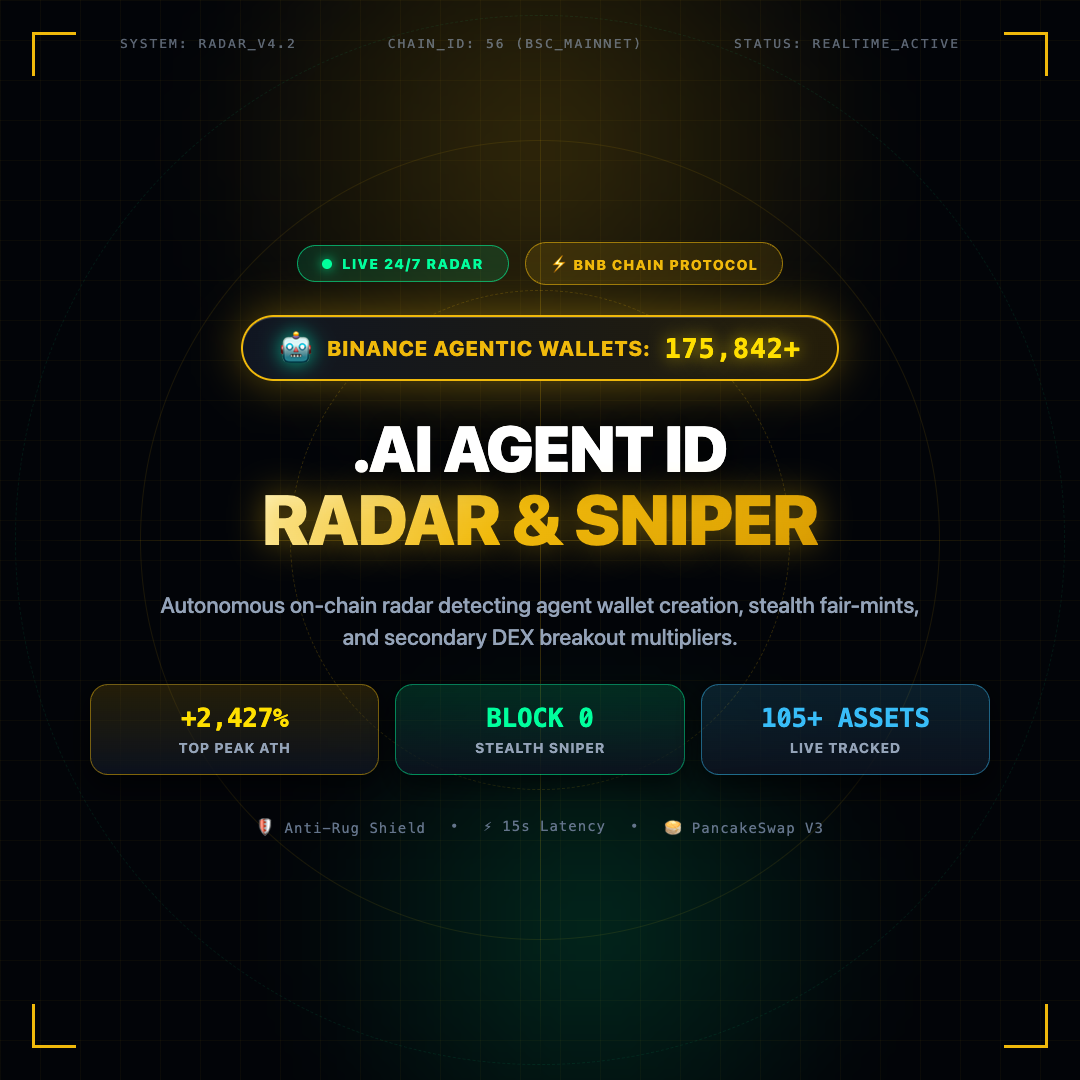
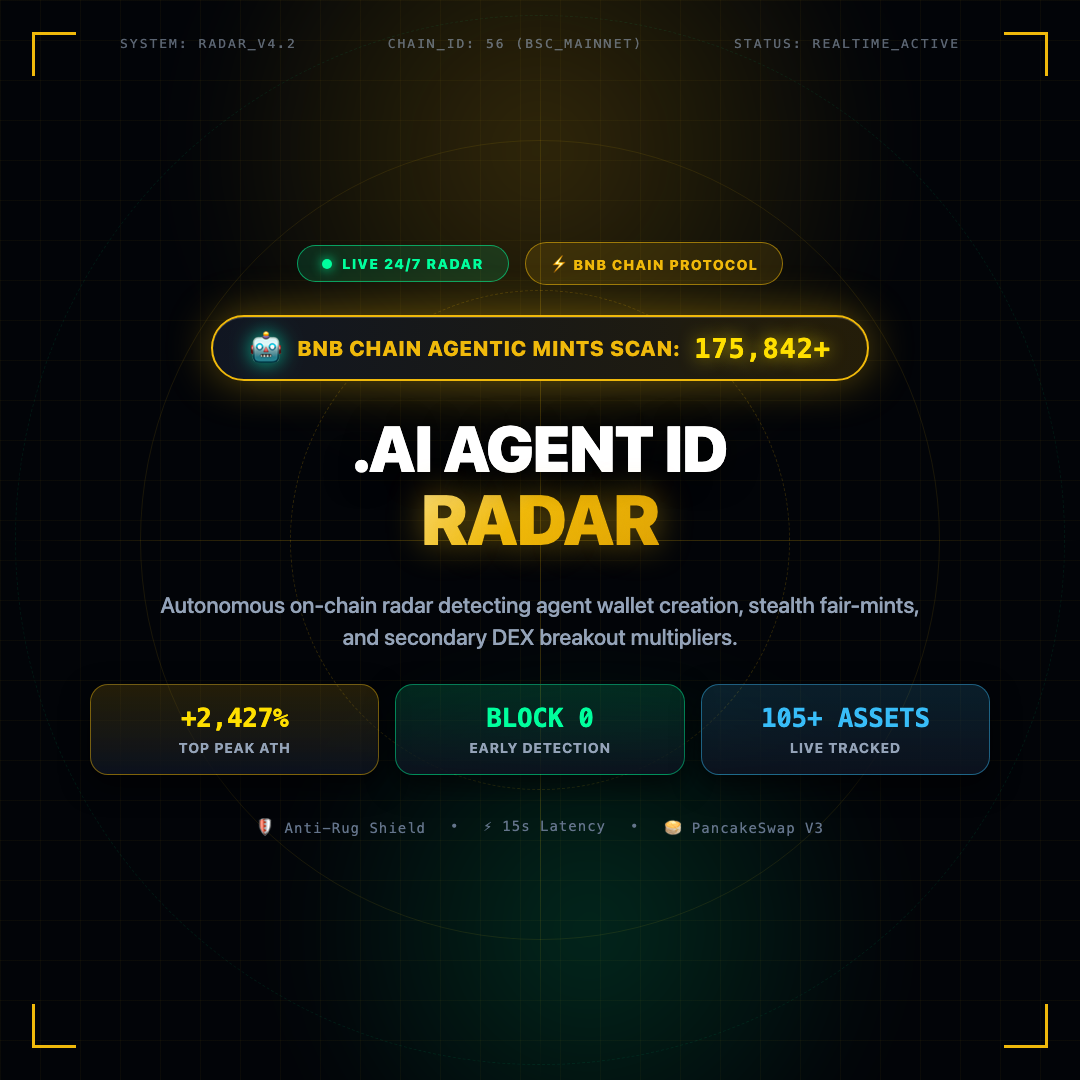
fix(thumbnails): drop "Sniper" wording, rename the wallet badge to "BNB Chain Agentic Mints Scan"
Both preview templates no longer say "Sniper" or "Binance Agentic Wallets"; og-preview.png and
thumbnail-square.png are re-rendered, and the image links move from ?v=5 to ?v=6 so crawlers refetch them.

Changed region(s): [[0.2139, 0.4278, 0.7639, 0.5194], [0.1833, 0.275, 0.825, 0.3667], [0.4278, 0.6722, 0.55, 0.7028]]

diff --git a/template-og.html b/template-og.html
@@ -398,7 +398,7 @@
     </div>
     <div class="hud-card" style="border-color: rgba(56, 189, 248, 0.3);">
       <div class="hud-card-label">🎯 FAIR-MINT DISCOVERY</div>
-      <div class="hud-card-value" style="color: #38BDF8;">BLOCK 0 SNIPER</div>
+      <div class="hud-card-value" style="color: #38BDF8;">BLOCK 0 DETECTION</div>
       <div class="hud-card-meta">Sub-Second Detection</div>
     </div>
     <div class="hud-card" style="border-color: rgba(0, 255, 157, 0.3);">
@@ -419,14 +419,14 @@
     <!-- The Iconic Agentic Wallets Counter Pill -->
     <div class="agentic-wallet-pill">
       <span class="emoji">🤖</span>
-      <span class="label">Binance Agentic Wallets:</span>
+      <span class="label">BNB Chain Agentic Mints Scan:</span>
       <span class="count">175,842+</span>
     </div>
 
     <!-- Main Title -->
     <div class="title-box">
       <div class="hero-title-top">.AI AGENT ID</div>
-      <div class="hero-title-bottom">RADAR & SNIPER</div>
+      <div class="hero-title-bottom">RADAR</div>
     </div>
 
     <p class="hero-sub">
@@ -441,7 +441,7 @@
       </div>
       <div class="chip chip-green">
         <span class="chip-val" style="color: #00FF9D;">BLOCK 0</span>
-        <span class="chip-sub">Stealth Sniper</span>
+        <span class="chip-sub">Early Detection</span>
       </div>
       <div class="chip chip-cyan">
         <span class="chip-val" style="color: #38BDF8;">105+ ASSETS</span>
@@ -463,7 +463,7 @@
       <div class="hud-card-meta">Instant Floor Tracker</div>
     </div>
     <div class="hud-card" style="border-color: rgba(251, 191, 36, 0.3);">
-      <div class="hud-card-label">⚡ 1-CLICK SNIPER</div>
+      <div class="hud-card-label">⚡ DEX LIQUIDITY</div>
       <div class="hud-card-value" style="color: #FDE047;">PANCAKESWAP V3</div>
       <div class="hud-card-meta">Zero Friction Routing</div>
     </div>

diff --git a/index.html b/index.html
@@ -18,8 +18,8 @@
   <meta property="og:url" content="https://agent-id-monitor.vercel.app">
   <meta property="og:title" content="BNB AGENT RADAR | 175k+ Agentic Wallets">
   <meta property="og:description" content="Autonomous on-chain radar detecting 175,842+ Binance agentic wallets, stealth Block 0 fair-mints, and secondary DEX breakout multipliers.">
-  <meta property="og:image" content="https://agent-id-monitor.vercel.app/og-preview.png?v=4">
-  <meta property="og:image:secure_url" content="https://agent-id-monitor.vercel.app/og-preview.png?v=4">
+  <meta property="og:image" content="https://agent-id-monitor.vercel.app/og-preview.png?v=6">
+  <meta property="og:image:secure_url" content="https://agent-id-monitor.vercel.app/og-preview.png?v=6">
   <meta property="og:image:type" content="image/png">
   <meta property="og:image:width" content="1200">
   <meta property="og:image:height" content="630">
@@ -29,7 +29,7 @@
   <meta name="twitter:url" content="https://agent-id-monitor.vercel.app">
   <meta name="twitter:title" content="BNB AGENT RADAR | 175k+ Agentic Wallets">
   <meta name="twitter:description" content="Autonomous on-chain radar detecting 175,842+ Binance agentic wallets, stealth Block 0 fair-mints, and secondary DEX breakout multipliers.">
-  <meta name="twitter:image" content="https://agent-id-monitor.vercel.app/og-preview.png?v=4">
+  <meta name="twitter:image" content="https://agent-id-monitor.vercel.app/og-preview.png?v=6">
 
   <!-- Fonts. Inter and JetBrains Mono: every weight requested here is used (style.css, index.html, app.js markup).
        Noto Sans SC only supplies Chinese glyphs in token names, so it loads without blocking render (media="print"

diff --git a/template-square.html b/template-square.html
@@ -325,13 +325,13 @@
     <!-- THE ICONIC WALLET BADGE -->
     <div class="agentic-wallet-pill">
       <span class="emoji">🤖</span>
-      <span class="label">Binance Agentic Wallets:</span>
+      <span class="label">BNB Chain Agentic Mints Scan:</span>
       <span class="count">175,842+</span>
     </div>
 
     <div class="hero-title-box">
       <div class="hero-title-top">.AI AGENT ID</div>
-      <div class="hero-title-bottom">RADAR & SNIPER</div>
+      <div class="hero-title-bottom">RADAR</div>
     </div>
 
     <p class="hero-sub">
@@ -345,7 +345,7 @@
       </div>
       <div class="chip chip-green">
         <span class="chip-val" style="color: #00FF9D;">BLOCK 0</span>
-        <span class="chip-sub">Stealth Sniper</span>
+        <span class="chip-sub">Early Detection</span>
       </div>
       <div class="chip chip-cyan">
         <span class="chip-val" style="color: #38BDF8;">105+ ASSETS</span>

diff --git a/tests/test_share_card.js b/tests/test_share_card.js
@@ -143,7 +143,7 @@ const ok = (body) => async () => ({ ok: true, status: 200, json: async () => bod
   };
   let r = await handle({ c: '<x>' }, async () => { throw new Error('must not be called'); });
   assert.strictEqual(r.statusCode, 302);
-  assert.ok(r.headers.Location.endsWith('/og-preview.png?v=4'));
+  assert.ok(r.headers.Location.endsWith('/og-preview.png?v=6'));
   r = await handle({ c: 'nothing' }, ok({ projects: [] }));
   assert.strictEqual(r.statusCode, 302);
   global.fetch = async (url) => (String(url).includes('railway') ? { ok: true, status: 200, json: async () => ({ projects: [rec()] }) } : (() => { throw new Error('offline'); })());

diff --git a/api/card.js b/api/card.js
@@ -125,7 +125,7 @@ async function renderPng(d) {
 
 module.exports = async function handler(req, res) {
   const id = String((req.query && req.query.c) || '').trim();
-  const fallback = () => { res.statusCode = 302; res.setHeader('Location', `${SITE}/og-preview.png?v=4`); res.setHeader('Cache-Control', 'public, s-maxage=60'); res.end(); };
+  const fallback = () => { res.statusCode = 302; res.setHeader('Location', `${SITE}/og-preview.png?v=6`); res.setHeader('Cache-Control', 'public, s-maxage=60'); res.end(); };
   if (!isValidId(id)) return fallback();
   try {
     const rec = await fetchToken(id);

diff --git a/api/share.js b/api/share.js
@@ -66,7 +66,7 @@ module.exports = async function handler(req, res) {
     res.end(page({
       title: 'BNB AGENT RADAR | Live BNB Chain Agent ID monitor',
       description: 'Autonomous on-chain radar for Binance agentic wallets, stealth Block 0 fair-mints and smart-wallet inflows.',
-      image: `${SITE}/og-preview.png?v=4`,
+      image: `${SITE}/og-preview.png?v=6`,
       url: SITE,
       dest: destination(query, ''),
     }));
